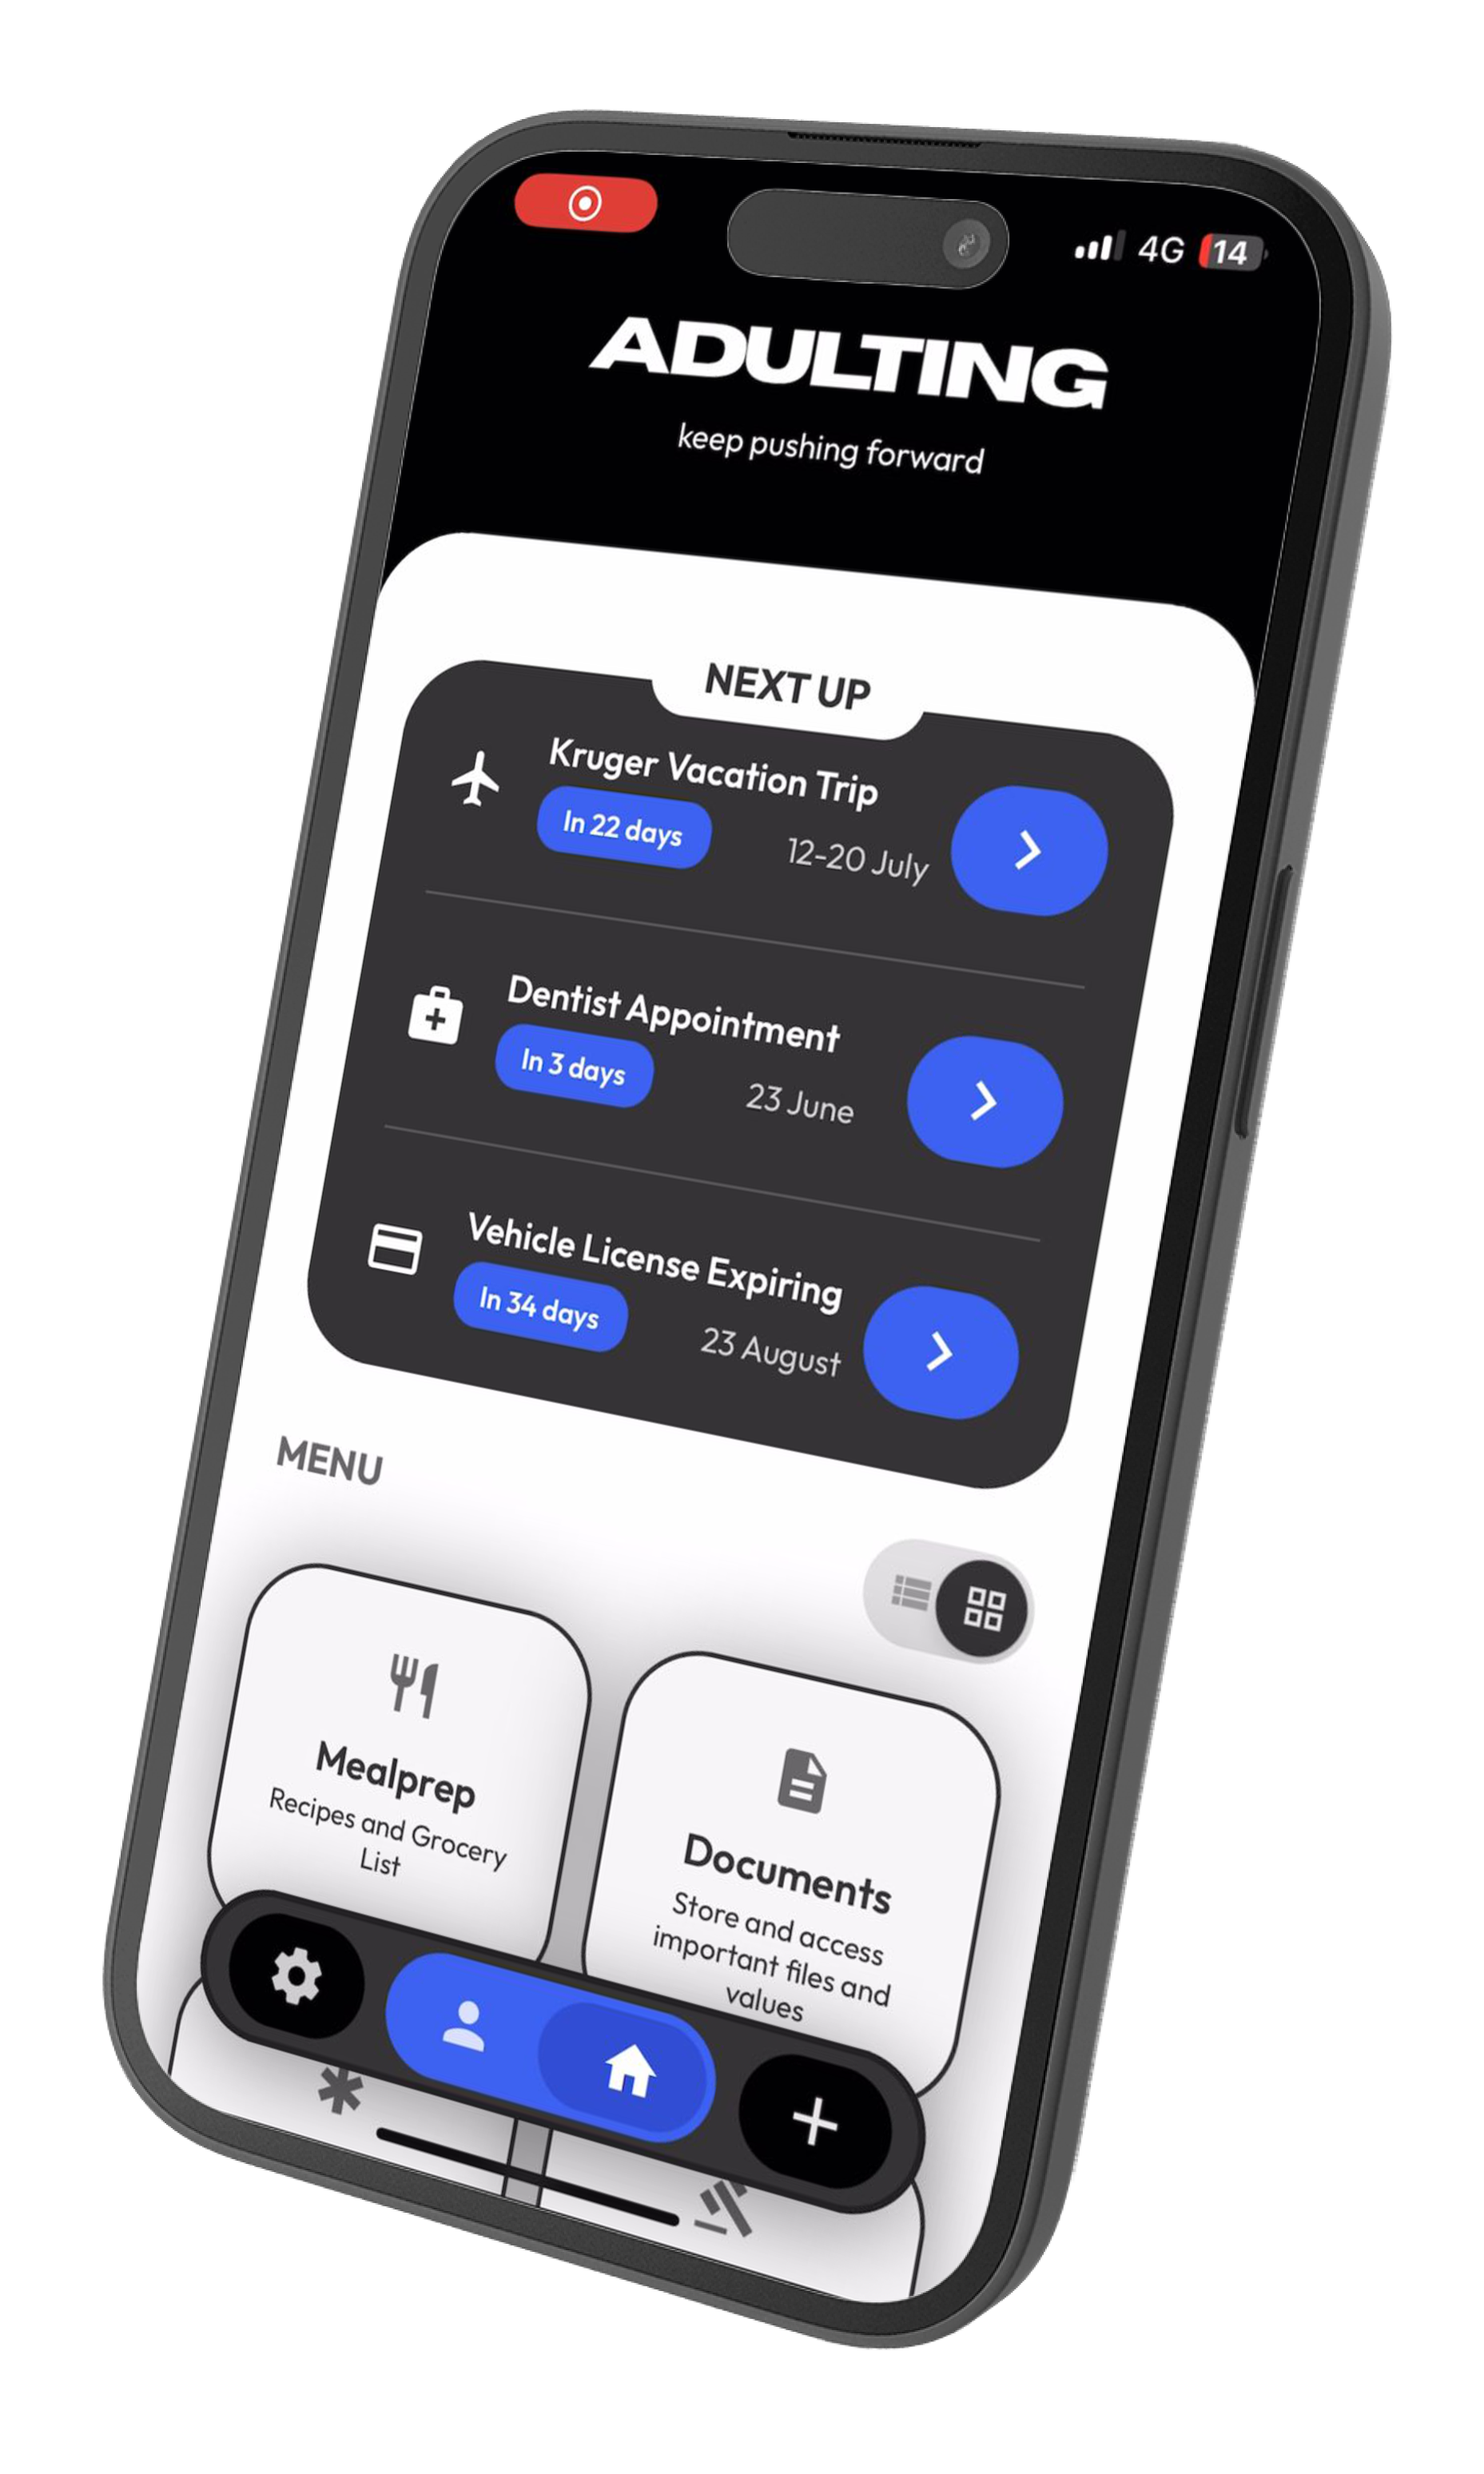
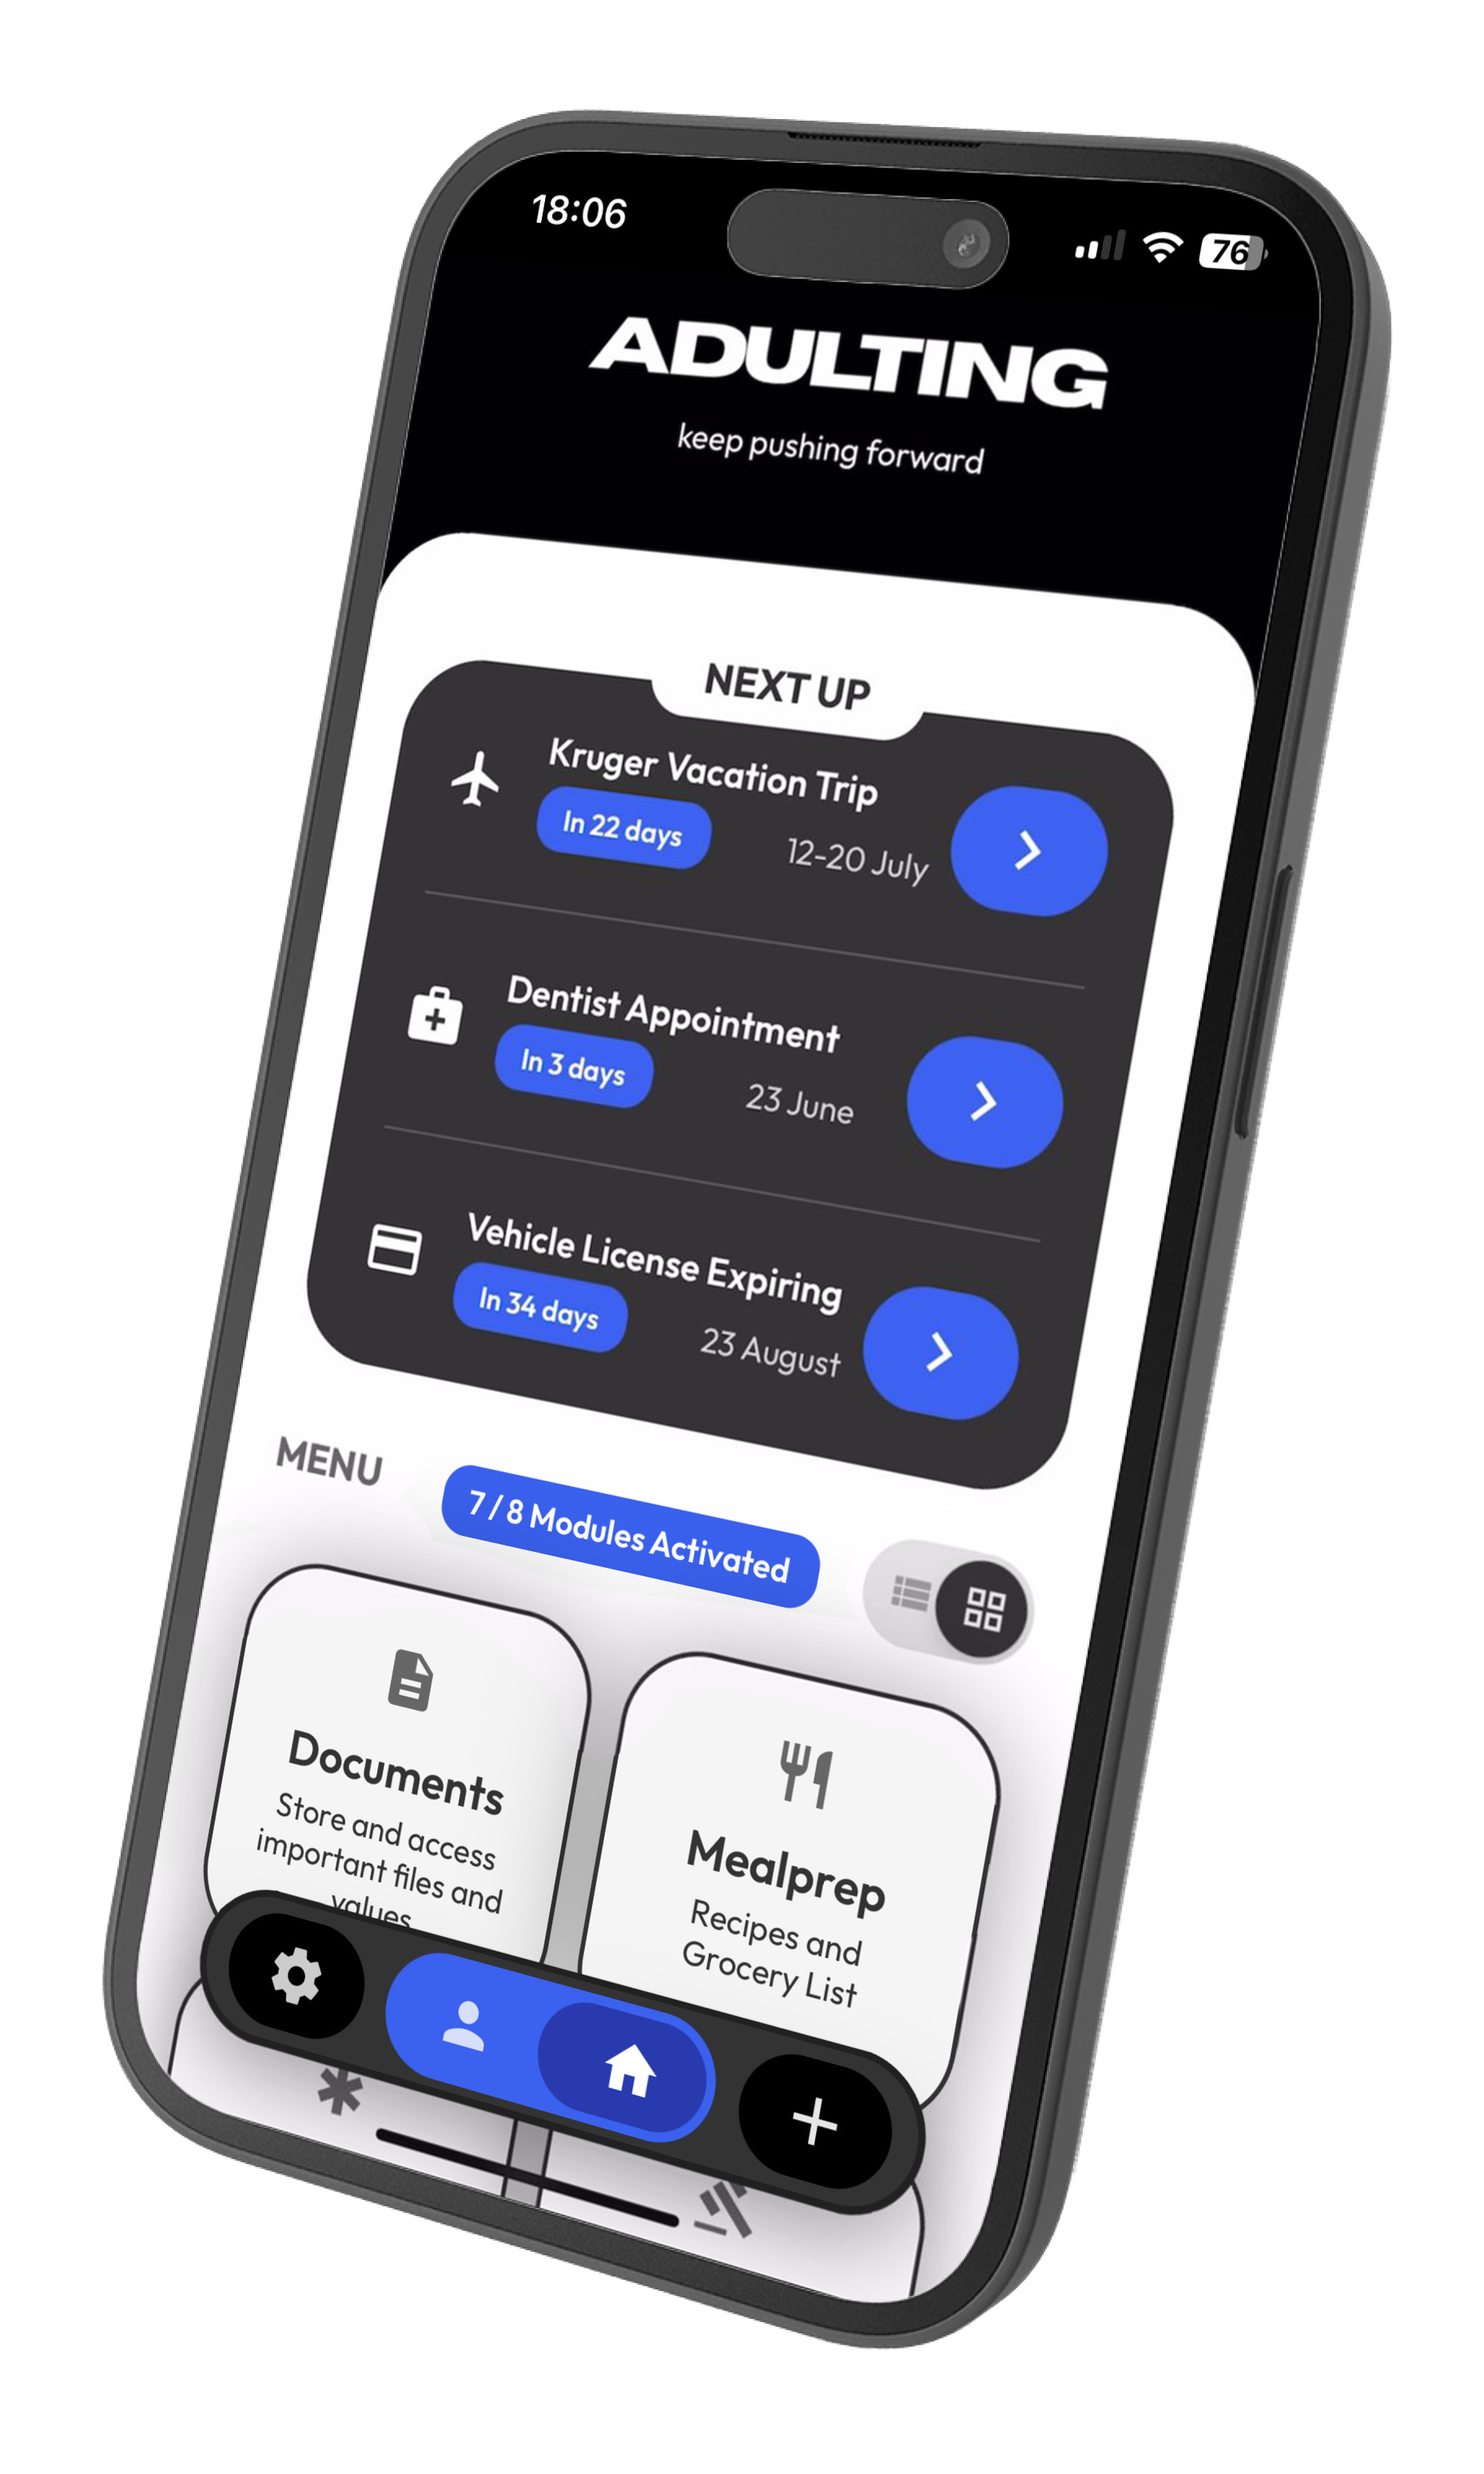
Resolved hydration error

diff --git a/app/page.tsx b/app/page.tsx
@@ -19,10 +19,9 @@ import { Button } from "@/components/ui/button"
 import { Input } from "@/components/ui/input"
 import { Accordion, AccordionContent, AccordionItem, AccordionTrigger } from "@/components/ui/accordion"
 import { useState, useEffect } from "react"
-import { useIsMobile } from "@/hooks/use-mobile"
 import { toast } from "sonner"
-import Head from "next/head"
-import { NavBar } from "@/components/layout/NavBar"
+import dynamic from "next/dynamic"
+const NavBar = dynamic(() => import("@/components/layout/NavBar").then(m => m.NavBar), { ssr: false })
 import { Footer } from "@/components/layout/Footer"
 
 type Benefit = {
@@ -191,24 +190,22 @@ export default function Home() {
     },
   ]
 
+  const [mounted, setMounted] = useState(false)
+
+  useEffect(() => {
+    setMounted(true)
+  }, [])
+
   useEffect(() => {
     window.scrollTo(0, 0);
   }, []);
 
+  if (!mounted) {
+    return null
+  }
+
   return (
     <div className="min-h-screen bg-gray-50 relative overflow-hidden">
-      <Head>
-        <link rel="preload" as="image" href="/images/iPhone-Vectors-1.png" />
-        <link rel="preload" as="image" href="/images/iphone-frame-x3.png" />
-        {benefits.map((benefit) => (
-          <link key={`preload-benefit-${benefit.title}`} rel="preload" as="image" href={benefit.icon} />
-        ))}
-        {features.flatMap((feature) =>
-          feature.expandedContent.images.map((image) => (
-            <link key={`preload-feature-${image}`} rel="preload" as="image" href={image} />
-          ))
-        )}
-      </Head>
       <NavBar />
       <HeroSection />
       <EmailSignupSection />
@@ -325,8 +322,8 @@ function HeroSection() {
                 <Image
                   src="/images/iPhone-Vectors-1.png"
                   alt="ADULTING app interface mockup"
-                  width={450}
-                  height={900}
+                  width={600}
+                  height={1200}
                   className="w-full h-auto drop-shadow-2xl"
                   priority
                 />
@@ -409,7 +406,6 @@ function UnifiedBenefitsFeaturesSection({ benefits, features }: { benefits: Bene
   const [expandedFeature, setExpandedFeature] = useState<number | null>(null)
   const [scrollY, setScrollY] = useState(0)
   const [activeBenefit, setActiveBenefit] = useState(0)
-  const isMobile = useIsMobile()
 
   const [carouselIndices, setCarouselIndices] = useState<{ [key: string]: number }>({})
 
@@ -483,82 +479,82 @@ function UnifiedBenefitsFeaturesSection({ benefits, features }: { benefits: Bene
               </p>
             </div>
 
-            {isMobile ? (
-              <div className="relative max-w-md mx-auto overflow-hidden">
-                <div
-                  className="flex transition-transform duration-500 ease-in-out"
-                  style={{ transform: `translateX(-${activeBenefit * 100}%)` }}
-                >
-                  {benefits.map((benefit, index) => (
-                    <div key={index} className="w-full flex-shrink-0">
-                      <div className="group relative">
-                        <div className="absolute -inset-1 bg-gray-600/10 rounded-2xl opacity-0 group-hover:opacity-100 transition-opacity duration-500"></div>
-                        <div className="relative bg-gray-50/95 backdrop-blur-sm border border-gray-200 p-8 rounded-2xl hover:bg-gray-50 transition-all duration-500 transform hover:-translate-y-2 shadow-lg hover:shadow-xl text-center h-full min-h-[620px] flex flex-col items-center justify-center">
-                          <div className="mb-6 flex justify-center">
-                            <Image
-                              src={benefit.icon}
-                              alt={benefit.title}
-                              width={256}
-                              height={256}
-                              className="h-64 w-auto object-contain transform group-hover:scale-110 transition-transform duration-300"
-                            />
-                          </div>
-                          <h3 className="text-2xl font-bold mb-4 text-gray-900 group-hover:text-black transition-colors duration-300">
-                            {benefit.title}
-                          </h3>
-                          <p className="text-gray-600 leading-relaxed">{benefit.description}</p>
-                        </div>
-                      </div>
-                    </div>
-                  ))}
-                </div>
-                <div className="flex justify-center items-center gap-6 mt-8">
-                  <Button onClick={() => handleBenefitChange("prev")} variant="outline" size="icon" className="rounded-full shadow-md">
-                    <ChevronLeft className="h-5 w-5" />
-                  </Button>
-                  <div className="flex gap-3">
-                    {benefits.map((_, i) => (
-                      <button
-                        key={i}
-                        onClick={() => setActiveBenefit(i)}
-                        className={`w-2.5 h-2.5 rounded-full transition-all duration-300 ${
-                          i === activeBenefit ? "bg-blue-500 scale-125" : "bg-gray-300 hover:bg-gray-400"
-                        }`}
-                        aria-label={`Go to slide ${i + 1}`}
-                      />
-                    ))}
-                  </div>
-                  <Button onClick={() => handleBenefitChange("next")} variant="outline" size="icon" className="rounded-full shadow-md">
-                    <ChevronRight className="h-5 w-5" />
-                  </Button>
-                </div>
-              </div>
-            ) : (
-              <div className="grid md:grid-cols-3 gap-8 max-w-6xl mx-auto">
+            {/* Mobile slider (always rendered, hidden on md and up) */}
+            <div className="relative max-w-md mx-auto overflow-hidden md:hidden">
+              <div
+                className="flex transition-transform duration-500 ease-in-out"
+                style={{ transform: `translateX(-${activeBenefit * 100}%)` }}
+              >
                 {benefits.map((benefit, index) => (
-                  <div key={index} className="group relative" style={{ animationDelay: `${index * 150}ms` }}>
-                    {/* Subtle hover effect */}
-                    <div className="absolute -inset-1 bg-gray-600/10 rounded-2xl opacity-0 group-hover:opacity-100 transition-opacity duration-500"></div>
-
-                    <div className="relative bg-gray-50/95 backdrop-blur-sm border border-gray-200 p-8 rounded-2xl hover:bg-gray-50 transition-all duration-500 transform hover:-translate-y-2 shadow-lg hover:shadow-xl text-center h-full">
-                      <div className="mb-6 flex justify-center">
-                        <Image
-                          src={benefit.icon}
-                          alt={benefit.title}
-                          width={256}
-                          height={256}
-                          className="h-64 w-auto object-contain transform group-hover:scale-110 transition-transform duration-300"
-                        />
+                  <div key={index} className="w-full flex-shrink-0">
+                    <div className="group relative">
+                      <div className="absolute -inset-1 bg-gray-600/10 rounded-2xl opacity-0 group-hover:opacity-100 transition-opacity duration-500"></div>
+                      <div className="relative bg-gray-50/95 backdrop-blur-sm border border-gray-200 p-8 rounded-2xl hover:bg-gray-50 transition-all duration-500 transform hover:-translate-y-2 shadow-lg hover:shadow-xl text-center h-full min-h-[620px] flex flex-col items-center justify-center">
+                        <div className="mb-6 flex justify-center">
+                          <Image
+                            src={benefit.icon}
+                            alt={benefit.title}
+                            width={256}
+                            height={256}
+                            className="h-64 w-auto object-contain transform group-hover:scale-110 transition-transform duration-300"
+                          />
+                        </div>
+                        <h3 className="text-2xl font-bold mb-4 text-gray-900 group-hover:text-black transition-colors duration-300">
+                          {benefit.title}
+                        </h3>
+                        <p className="text-gray-600 leading-relaxed">{benefit.description}</p>
                       </div>
-                      <h3 className="text-2xl font-bold mb-4 text-gray-900 group-hover:text-black transition-colors duration-300">
-                        {benefit.title}
-                      </h3>
-                      <p className="text-gray-600 leading-relaxed">{benefit.description}</p>
                     </div>
                   </div>
                 ))}
               </div>
-            )}
+              <div className="flex justify-center items-center gap-6 mt-8">
+                <Button onClick={() => handleBenefitChange("prev")} variant="outline" size="icon" className="rounded-full shadow-md">
+                  <ChevronLeft className="h-5 w-5" />
+                </Button>
+                <div className="flex gap-3">
+                  {benefits.map((_, i) => (
+                    <button
+                      key={i}
+                      onClick={() => setActiveBenefit(i)}
+                      className={`w-2.5 h-2.5 rounded-full transition-all duration-300 ${
+                        i === activeBenefit ? "bg-blue-500 scale-125" : "bg-gray-300 hover:bg-gray-400"
+                      }`}
+                      aria-label={`Go to slide ${i + 1}`}
+                    />
+                  ))}
+                </div>
+                <Button onClick={() => handleBenefitChange("next")} variant="outline" size="icon" className="rounded-full shadow-md">
+                  <ChevronRight className="h-5 w-5" />
+                </Button>
+              </div>
+            </div>
+
+            {/* Desktop grid (hidden on small screens) */}
+            <div className="hidden md:grid md:grid-cols-3 gap-8 max-w-6xl mx-auto">
+              {benefits.map((benefit, index) => (
+                <div key={index} className="group relative" style={{ animationDelay: `${index * 150}ms` }}>
+                  {/* Subtle hover effect */}
+                  <div className="absolute -inset-1 bg-gray-600/10 rounded-2xl opacity-0 group-hover:opacity-100 transition-opacity duration-500"></div>
+
+                  <div className="relative bg-gray-50/95 backdrop-blur-sm border border-gray-200 p-8 rounded-2xl hover:bg-gray-50 transition-all duration-500 transform hover:-translate-y-2 shadow-lg hover:shadow-xl text-center h-full">
+                    <div className="mb-6 flex justify-center">
+                      <Image
+                        src={benefit.icon}
+                        alt={benefit.title}
+                        width={256}
+                        height={256}
+                        className="h-64 w-auto object-contain transform group-hover:scale-110 transition-transform duration-300"
+                      />
+                    </div>
+                    <h3 className="text-2xl font-bold mb-4 text-gray-900 group-hover:text-black transition-colors duration-300">
+                      {benefit.title}
+                    </h3>
+                    <p className="text-gray-600 leading-relaxed">{benefit.description}</p>
+                  </div>
+                </div>
+              ))}
+            </div>
           </div>
         </div>
 

diff --git a/components/layout/Footer.tsx b/components/layout/Footer.tsx
@@ -73,7 +73,7 @@ export function Footer() {
         </div>
 
         <div className="border-t border-gray-700 pt-8 flex flex-col md:flex-row justify-between items-center">
-          <p className="text-gray-400 text-base">&copy; {new Date().getFullYear()} ADULTING. All rights reserved.</p>
+          <p className="text-gray-400 text-base">&copy; <span suppressHydrationWarning>{new Date().getFullYear()}</span> ADULTING. All rights reserved.</p>
 
           <div className="flex space-x-6 mt-6 md:mt-0">
             {["linkedin", "instagram", "tiktok"].map((social, i) => (

diff --git a/components/ui/sonner.tsx b/components/ui/sonner.tsx
@@ -1,5 +1,6 @@
 "use client"
 
+import * as React from "react"
 import { useTheme } from "next-themes"
 import { Toaster as Sonner } from "sonner"
 
@@ -7,6 +8,13 @@ type ToasterProps = React.ComponentProps<typeof Sonner>
 
 const Toaster = ({ ...props }: ToasterProps) => {
   const { theme = "system" } = useTheme()
+  const [mounted, setMounted] = React.useState(false)
+
+  React.useEffect(() => {
+    setMounted(true)
+  }, [])
+
+  if (!mounted) return null
 
   return (
     <Sonner
